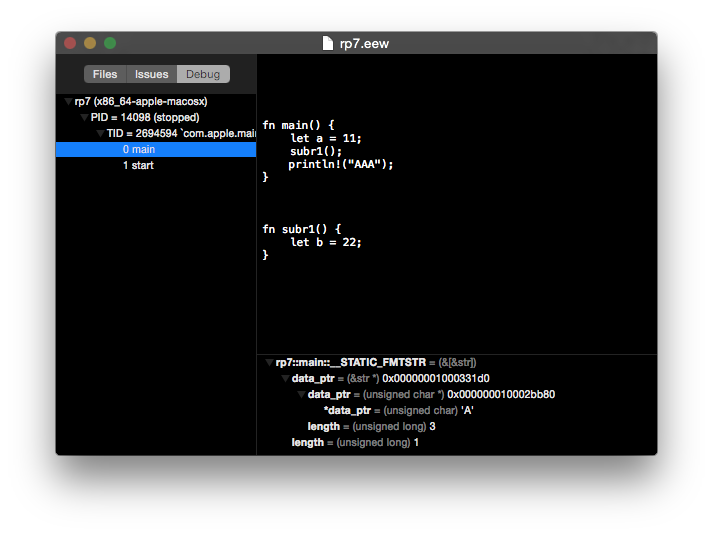
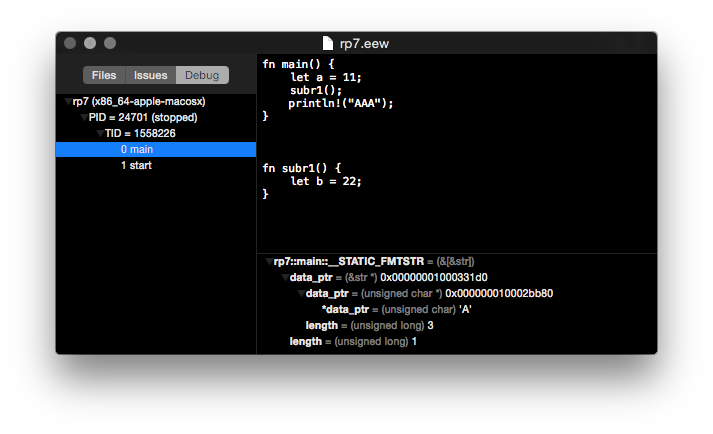
Tune and patched some graphics.

Changed region(s): [[0.0617, 0.0599, 0.9257, 0.3894], [0.0617, 0.5691, 0.9257, 0.8986], [0.3703, 0.3594, 0.5245, 0.4793]]

diff --git a/Project/Subprojects/EditorIssueListingFeature/EditorIssueListingFeature/IssueListingViewController.swift b/Project/Subprojects/EditorIssueListingFeature/EditorIssueListingFeature/IssueListingViewController.swift
@@ -9,6 +9,7 @@
 import Foundation
 import AppKit
 import EditorCommon
+import EditorUIComponents
 
 
 
@@ -100,7 +101,8 @@ public final class IssueListingViewController: NSViewController {
 		
 		outlineView.addTableColumn(makeTextColumn())
 		outlineView.outlineTableColumn			=	(self.outlineView.tableColumns[0] as? NSTableColumn)!
-		outlineView.selectionHighlightStyle		=	NSTableViewSelectionHighlightStyle.SourceList
+//		outlineView.selectionHighlightStyle		=	NSTableViewSelectionHighlightStyle.SourceList				//	Currently I don't know how to make inactive cell's background color appropriately.
+		outlineView.selectionHighlightStyle		=	NSTableViewSelectionHighlightStyle.Regular					//	I wish this to be fixed in future OS X releases, and then, patch this code.
 		outlineView.rowSizeStyle				=	NSTableViewRowSizeStyle.Small
 		outlineView.headerView					=	nil
 		outlineView.setDataSource(self)
@@ -207,6 +209,12 @@ extension IssueListingViewController: NSOutlineViewDataSource {
 ///	MARK:	NSOutlineViewDelegate
 
 extension IssueListingViewController: NSOutlineViewDelegate {
+	@objc
+	public func outlineView(outlineView: NSOutlineView, rowViewForItem item: AnyObject) -> NSTableRowView? {
+		return	DarkVibrancyAwareTableRowView()
+	}
+	
+	@objc
 	public func outlineView(outlineView: NSOutlineView, viewForTableColumn tableColumn: NSTableColumn?, item: AnyObject) -> NSView? {
 		let	v1	=	NSImageView()
 		let	v2	=	NSTextField()
@@ -214,8 +222,9 @@ extension IssueListingViewController: NSOutlineViewDelegate {
 		
 		v2.editable			=	false
 		v2.bordered			=	false
+		v2.bezeled			=	false
+		v2.drawsBackground	=	false
 		v2.textColor		=	NSColor.textColor()
-		v2.backgroundColor	=	NSColor.clearColor()
 		v2.lineBreakMode	=	NSLineBreakMode.ByTruncatingTail
 		
 		v.addSubview(v1)

diff --git a/Project/Subprojects/EditorIssueListingFeature/EditorIssueListingFeature/IssueRepository.swift b/Project/Subprojects/EditorIssueListingFeature/EditorIssueListingFeature/IssueRepository.swift
@@ -134,7 +134,8 @@ final class IssueGroupNode {
 	}
 	var iconForUI:NSImage {
 		get {
-			return	_origin == nil ? IconUtility.iconForCodeUsingIconServices(kUnknownFSObjectIcon) : IconUtility.iconForURL(_origin!)
+			return	IconPalette.FontAwesome.WebApplicationIcons.fileO.image.templatize()
+//			return	_origin == nil ? IconUtility.iconForCodeUsingIconServices(kUnknownFSObjectIcon) : IconUtility.iconForURL(_origin!)
 		}
 	}
 	var textForUI:String {
@@ -215,8 +216,8 @@ final class IssueItemNode {
 private let	SCALE	=	0.9 as CGFloat
 
 private struct IssueIconPalette {
-	static let	info	=	IconPalette.FontAwesome.WebApplicationIcons.infoCircle.image.imageWithScale(SCALE).imageWithAlpha(0.25).templatize()
-	static let	warning	=	IconPalette.FontAwesome.WebApplicationIcons.exclamationTriangle.image.imageWithScale(SCALE).imageWithAlpha(0.25).templatize()
+	static let	info	=	IconPalette.FontAwesome.WebApplicationIcons.infoCircle.image.imageWithScale(SCALE).imageWithAlpha(0.4).templatize()
+	static let	warning	=	IconPalette.FontAwesome.WebApplicationIcons.exclamationTriangle.image.imageWithScale(SCALE).imageWithAlpha(0.4).templatize()
 	static let	error	=	IconPalette.FontAwesome.WebApplicationIcons.exclamationCircle.image.imageWithScale(SCALE).templatize()
 	
 //	static let	info	=	IconUtility.iconForCodeUsingIconServices(kAlertNoteIcon).templatize()

diff --git a/Project/Subprojects/EditorDebuggingFeature/EditorDebuggingFeature/ExecutionStateTreeViewController.swift b/Project/Subprojects/EditorDebuggingFeature/EditorDebuggingFeature/ExecutionStateTreeViewController.swift
@@ -118,14 +118,14 @@ public final class ExecutionStateTreeViewController: NSViewController, NSOutline
 	
 	public func outlineView(outlineView: NSOutlineView, rowViewForItem item: AnyObject) -> NSTableRowView? {
 		let	v	=	DarkVibrancyAwareTableRowView()
-		v.appearance	=	outlineView.appearance
+//		v.appearance	=	outlineView.appearance
 		return	v
 	}
 	public func outlineView(outlineView: NSOutlineView, viewForTableColumn tableColumn: NSTableColumn?, item: AnyObject) -> NSView? {
 		let	n	=	item as! NodeBase
 		let	v	=	AttributedStringTableCellView()
 		v.attributedString	=	Text(n.label).setFont(Palette.defaultFont()).setTextColor(NSColor.labelColor()).attributedString
-		v.appearance		=	outlineView.appearance
+//		v.appearance		=	outlineView.appearance
 		return	v
 	}
 	

diff --git a/Project/Subprojects/EditorDebuggingFeature/EditorDebuggingFeature/VariableTreeViewController.swift b/Project/Subprojects/EditorDebuggingFeature/EditorDebuggingFeature/VariableTreeViewController.swift
@@ -106,14 +106,14 @@ public final class VariableTreeViewController: NSViewController, NSOutlineViewDa
 //	}
 	public func outlineView(outlineView: NSOutlineView, rowViewForItem item: AnyObject) -> NSTableRowView? {
 		let	v	=	DarkVibrancyAwareTableRowView()
-		v.appearance	=	outlineView.appearance
+//		v.appearance	=	outlineView.appearance
 		return	v
 	}
 	public func outlineView(outlineView: NSOutlineView, viewForTableColumn tableColumn: NSTableColumn?, item: AnyObject) -> NSView? {
 		if let n = item as? VariableNode {
 			let	v				=	AttributedStringTableCellView()
 			v.attributedString	=	makePresentationText(n)
-			v.appearance		=	outlineView.appearance
+//			v.appearance		=	outlineView.appearance
 			return	v
 		} else {
 			fatalError("Unsupported item `\(item)`.")

diff --git a/Project/Subprojects/EditorWorkspaceNavigationFeature/EditorWorkspaceNavigationFeature/Internals/InternalController.swift b/Project/Subprojects/EditorWorkspaceNavigationFeature/EditorWorkspaceNavigationFeature/Internals/InternalController.swift
@@ -289,6 +289,12 @@ extension InternalController: NSOutlineViewDataSource {
 //		let	v	=	NSTableRowView()
 //		return	v
 //	}
+	
+	@objc
+	func outlineView(outlineView: NSOutlineView, rowViewForItem item: AnyObject) -> NSTableRowView? {
+		let	v	=	DarkVibrancyAwareTableRowView()
+		return	v
+	}
 	@objc
 	func outlineView(outlineView: NSOutlineView, viewForTableColumn tableColumn: NSTableColumn?, item: AnyObject) -> NSView? {
 		let	cid	=	WorkspaceNavigationTreeColumnIdentifier(rawValue: tableColumn!.identifier)!
